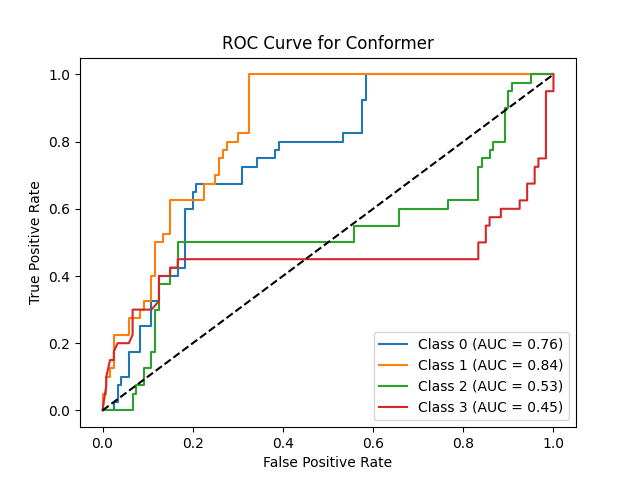
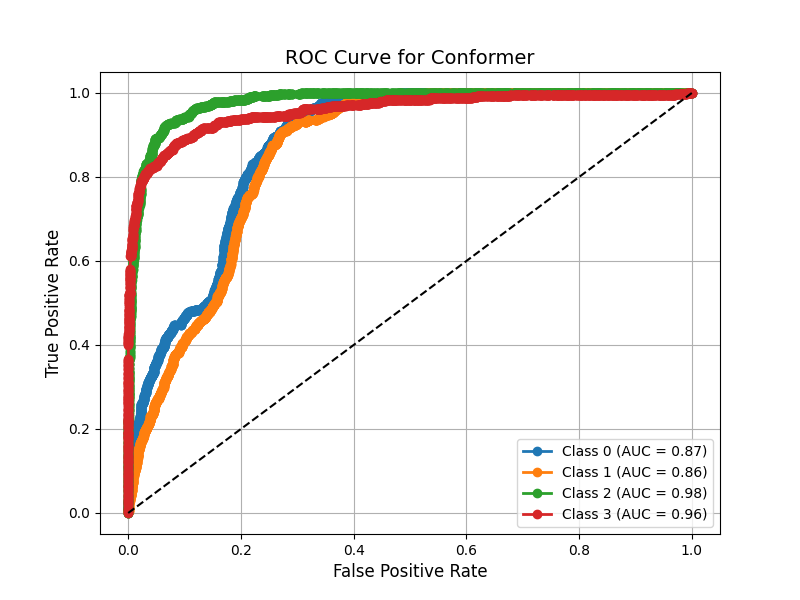
Code Improvement

diff --git a/main.py b/main.py
@@ -16,6 +16,8 @@ import tensorflow
 
 from Engine.Arguments.Arguments import auto_arguments
 from Engine.Models.AST import AudioSpectrogramTransformer
+from Engine.Models.Conformer import Conformer
+from Engine.Models.LSTM import AudioLSTM
 from Engine.Models.MLP import DenseModel
 from Engine.Models.ResidualModel import ResidualModel
 from Engine.Models.Wav2Vec2 import AudioWav2Vec2
@@ -112,8 +114,8 @@ class Main(RunScript, PlotterTools):
             # Train the model and collect results
             instance.build_model()
             model_metrics, model_history, model_matrices, model_roc_list = instance.train()
-            #logging.info( f"Training completed for model '{model_class.__name__}'."
-            #              f" Collected metrics, history, matrices, and ROC data.")11
+            logging.info( f"Training completed for model '{model_class.__name__}'."
+                          f" Collected metrics, history, matrices, and ROC data.")
 
         except Exception as e:
             logging.error(f"Error during training of model '{model_class.__name__}': {e}")
@@ -124,29 +126,28 @@ class Main(RunScript, PlotterTools):
             gc.collect()
             logging.info(f"Garbage collection complete after training model '{model_class.__name__}'.")
 
-        return [], [], [], []
 
-        # return model_metrics, model_history, model_matrices, model_roc_list
+        return model_metrics, model_history, model_matrices, model_roc_list
 
 
     def __exec__(self, models, output_directory):
 
         logging.info("Starting the training and evaluation process.")
 
-        for i, model_class in enumerate(models):
-            logging.debug(f"Training model {i + 1}/{len(models)}: {model_class.__name__}")
+        for index, model_class in enumerate(models):
+            logging.debug(f"Training model {index + 1}/{len(models)}: {model_class.__name__}")
 
             try:
                 metrics, history, matrices, roc_list = self.train_and_collect_metrics(model_class=model_class)
 
-                # self.mean_metrics.append(metrics)
-                # self.mean_history.append(history)
-                # self.mean_matrices.append(matrices)
-                #
-                # logging.info(f"Model {model_class.__name__} training completed. Metrics collected.")
-                #
-                # self.plot_roc_curve(roc_list, "Results/")
-                # logging.info(f"ROC curve plotted for {model_class.__name__}.")
+                self.mean_metrics.append(metrics)
+                self.mean_history.append(history)
+                self.mean_matrices.append(matrices)
+
+                logging.info(f"Model {model_class.__name__} training completed. Metrics collected.")
+
+                self.plot_roc_curve(roc_list, "Results/")
+                logging.info(f"ROC curve plotted for {model_class.__name__}.")
 
             except Exception as e:
                 logging.error(f"Error during training of model {model_class.__name__}: {str(e)}")
@@ -184,12 +185,12 @@ if __name__ == "__main__":
     main.__start__()
 
     available_models = [
-#        DenseModel,
-#       AudioLSTM,
-#        Conformer,
+        Conformer,
+        DenseModel,
+        AudioLSTM,
         AudioSpectrogramTransformer,
-#        AudioWav2Vec2,
-#        ResidualModel
+        AudioWav2Vec2,
+        ResidualModel
     ]
 
     main.__exec__(available_models, "Results")

diff --git a/Engine/Models/Process/Base_Process.py b/Engine/Models/Process/Base_Process.py
@@ -21,14 +21,14 @@ class BaseProcess:
         # Calculate mean metrics across all folds
         mean_metrics = {
             'model_name': self.model_name,
-            'Acc.': {'value': numpy.mean([metric['Accuracy'] for metric in metrics_list]),
-                     'std': numpy.std([metric['Accuracy'] for metric in metrics_list])},
-            'Prec.': {'value': numpy.mean([metric['Precision'] for metric in metrics_list]),
-                      'std': numpy.std([metric['Precision'] for metric in metrics_list])},
-            'Rec.': {'value': numpy.mean([metric['Recall'] for metric in metrics_list]),
-                     'std': numpy.std([metric['Recall'] for metric in metrics_list])},
-            'F1.': {'value': numpy.mean([metric['F1-Score'] for metric in metrics_list]),
-                    'std': numpy.std([metric['F1-Score'] for metric in metrics_list])},
+            'Acc.': {'value': numpy.mean([metric['accuracy'] for metric in metrics_list]),
+                     'std': numpy.std([metric['accuracy'] for metric in metrics_list])},
+            'Prec.': {'value': numpy.mean([metric['precision'] for metric in metrics_list]),
+                      'std': numpy.std([metric['precision'] for metric in metrics_list])},
+            'Rec.': {'value': numpy.mean([metric['recall'] for metric in metrics_list]),
+                     'std': numpy.std([metric['recall'] for metric in metrics_list])},
+            'F1.': {'value': numpy.mean([metric['f1_score'] for metric in metrics_list]),
+                    'std': numpy.std([metric['f1_score'] for metric in metrics_list])},
         }
 
         probabilities_predicted = {

diff --git a/Engine/Models/Process/Conformer_Process.py b/Engine/Models/Process/Conformer_Process.py
@@ -108,16 +108,18 @@ class ProcessConformer(ClassBalancer, WindowGenerator, BaseProcess, Metrics):
 
                             # Append spectrogram and label
                             list_spectrogram.append(spectrogram_decibel_scale)
+
                             list_labels.append(label)
 
                 except Exception as e:
                     logging.error(f"Error processing file '{file_name}': {e}")
+        print(numpy.array(list_spectrogram).shape)
 
         # Reshape the feature array to the expected dimensions
         array_features = numpy.array(list_spectrogram).reshape(
             len(list_spectrogram),
             self.number_filters_spectrogram,
-            self.window_size // self.hop_length,  # Time frames depend on hop length
+            (self.window_size // self.hop_length) + 1,  # Time frames depend on hop length
             1
         )
 

diff --git a/Engine/Arguments/ArgumentsROCPlotter.py b/Engine/Arguments/ArgumentsROCPlotter.py
@@ -13,7 +13,7 @@ DEFAULT_ROC_PLOTTER_FIGURE_SIZE = (8, 6)
 DEFAULT_ROC_PLOTTER_LINE_WIDTH = 2
 DEFAULT_ROC_PLOTTER_MARKER_STYLE = 'o'
 DEFAULT_ROC_PLOTTER_COLOR_MAP = 'magma'
-DEFAULT_ROC_PLOTTER_SHOW_PLOT = True
+DEFAULT_ROC_PLOTTER_SHOW_PLOT = False
 DEFAULT_ROC_PLOTTER_TITLE_FONT_SIZE = 14
 DEFAULT_ROC_PLOTTER_AXIS_LABEL_FONT_SIZE = 12
 DEFAULT_ROC_PLOTTER_LEGEND_FONT_SIZE = 10

diff --git a/Engine/Arguments/ArgumentsAST.py b/Engine/Arguments/ArgumentsAST.py
@@ -36,7 +36,7 @@ DEFAULT_NUMBER_FILTERS = 128
 DEFAULT_SIZE_PATCH = (16, 16)
 DEFAULT_WINDOW_SIZE_FACTOR = 40
 DEFAULT_FILE_EXTENSION = '*.wav'
-DEFAULT_PROJECTION_DIMENSION = 64
+DEFAULT_PROJECTION_DIMENSION = 32
 DEFAULT_DECIBEL_SCALE_FACTOR = 80
 DEFAULT_OPTIMIZER_FUNCTION = 'adam'
 DEFAULT_NORMALIZATION_EPSILON = 1e-6
